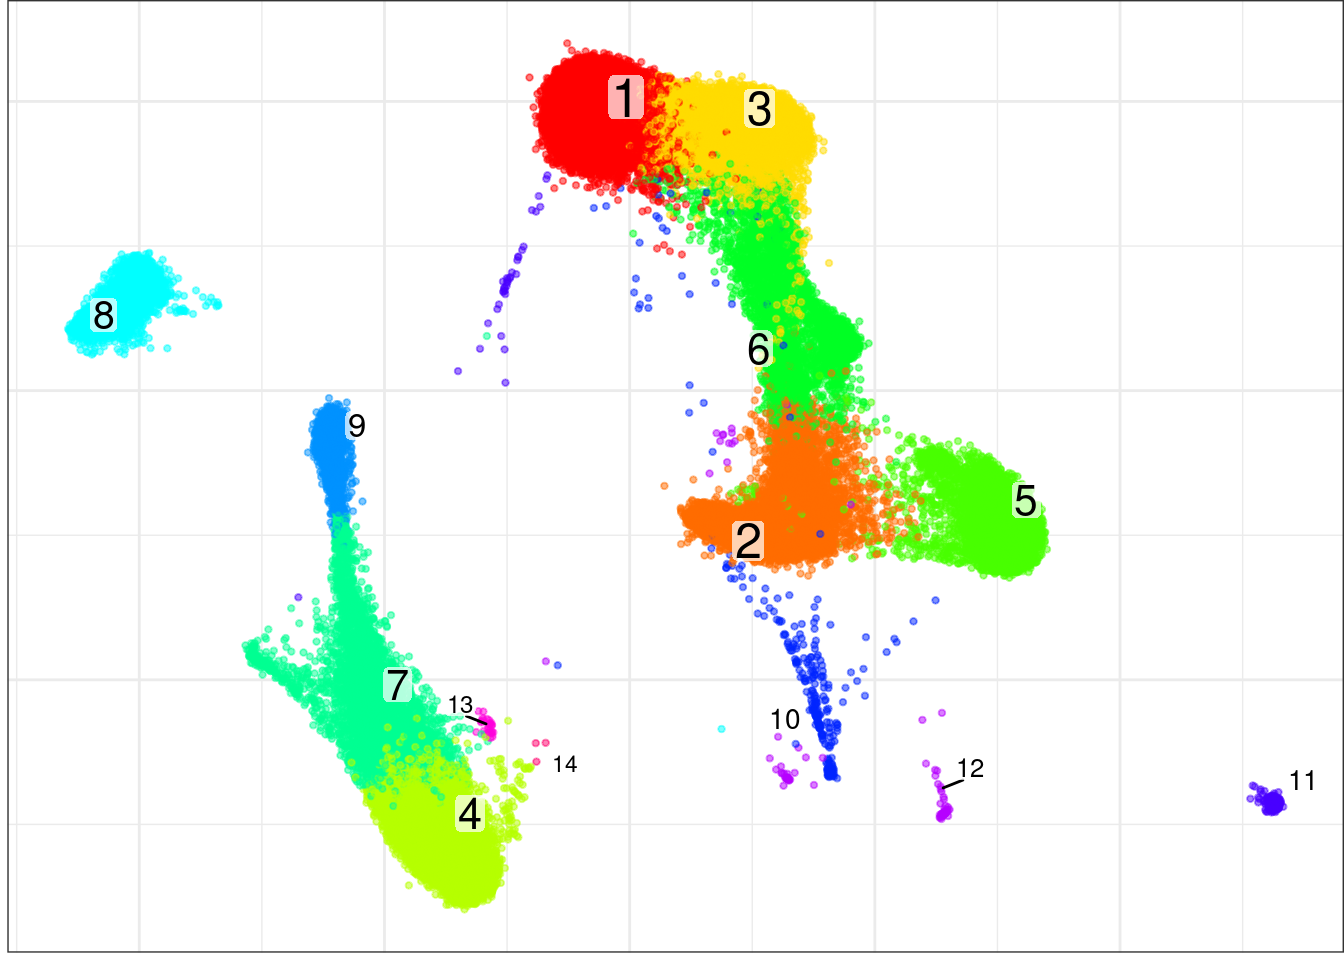
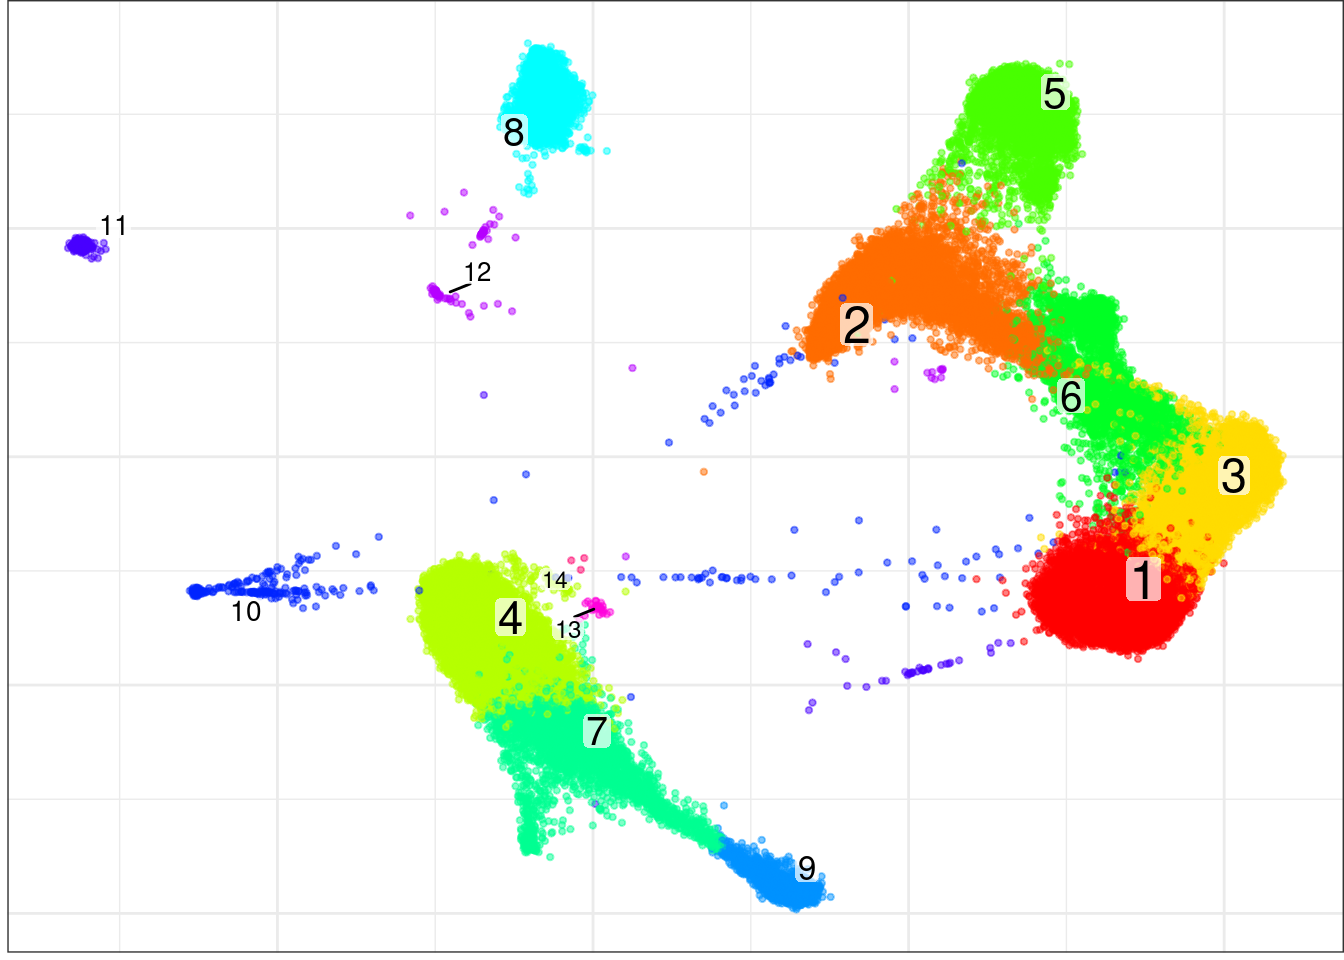
Build site.

diff --git a/docs/analysiswithconos.html b/docs/analysiswithconos.html
@@ -523,16 +523,16 @@ This reproducible <a href="http://rmarkdown.rstudio.com">R Markdown</a> analysis
 <div class="panel panel-default">
 <div class="panel-heading">
 <p class="panel-title">
-<a data-toggle="collapse" data-parent="#workflowr-checks" href="#strongRepositoryversionstrongahrefhttpsgithubcomjeprobprojectscrnaseqintegrationcomparisontree3df5d574dcc374b3e99eb0e82ae75da51ad36114targetblank3df5d57a"> <span class="glyphicon glyphicon-ok text-success" aria-hidden="true"></span> <strong>Repository version:</strong> <a href="https://github.com/jeprob/project-scrnaseq-integration-comparison/tree/3df5d574dcc374b3e99eb0e82ae75da51ad36114" target="_blank">3df5d57</a> </a>
+<a data-toggle="collapse" data-parent="#workflowr-checks" href="#strongRepositoryversionstrongahrefhttpsgithubcomjeprobprojectscrnaseqintegrationcomparisontreeb8ce607623cd019a14cf4cf6ad75fb1d3bffa91etargetblankb8ce607a"> <span class="glyphicon glyphicon-ok text-success" aria-hidden="true"></span> <strong>Repository version:</strong> <a href="https://github.com/jeprob/project-scrnaseq-integration-comparison/tree/b8ce607623cd019a14cf4cf6ad75fb1d3bffa91e" target="_blank">b8ce607</a> </a>
 </p>
 </div>
[2 lines of base64/hex data omitted]
 <div class="panel-body">
 <p>
 Great! You are using Git for version control. Tracking code development and connecting the code version to the results is critical for reproducibility.
 </p>
 <p>
-The results in this page were generated with repository version <a href="https://github.com/jeprob/project-scrnaseq-integration-comparison/tree/3df5d574dcc374b3e99eb0e82ae75da51ad36114" target="_blank">3df5d57</a>. See the <em>Past versions</em> tab to see a history of the changes made to the R Markdown and HTML files.
+The results in this page were generated with repository version <a href="https://github.com/jeprob/project-scrnaseq-integration-comparison/tree/b8ce607623cd019a14cf4cf6ad75fb1d3bffa91e" target="_blank">b8ce607</a>. See the <em>Past versions</em> tab to see a history of the changes made to the R Markdown and HTML files.
 </p>
 <p>
 Note that you need to be careful to ensure that all relevant files for the analysis have been committed to Git prior to generating the results (you can use <code>wflow_publish</code> or <code>wflow_git_commit</code>). workflowr only checks the R Markdown file, but you know if there are other scripts or data files that it depends on. Below is the status of the Git repository when the results were generated:
@@ -579,6 +579,40 @@ Message
 </tr>
 </thead>
 <tbody>
+<tr>
+<td>
+Rmd
+</td>
+<td>
+<a href="https://github.com/jeprob/project-scrnaseq-integration-comparison/blob/b8ce607623cd019a14cf4cf6ad75fb1d3bffa91e/analysis/analysiswithconos.Rmd" target="_blank">b8ce607</a>
+</td>
+<td>
+jeprob
+</td>
+<td>
+2021-01-10
+</td>
+<td>
+conos finalfinal 20200110T1844
+</td>
+</tr>
+<tr>
+<td>
+html
+</td>
+<td>
+<a href="https://rawcdn.githack.com/jeprob/project-scrnaseq-integration-comparison/0d784d5fe15f127f2f704503e635d250a5d13be9/docs/analysiswithconos.html" target="_blank">0d784d5</a>
+</td>
+<td>
+jeprob
+</td>
+<td>
+2021-01-10
+</td>
+<td>
+Build site.
+</td>
+</tr>
 <tr>
 <td>
 html
@@ -966,6 +1000,17 @@ Date
 <tbody>
 <tr>
 <td>
+<a href="https://github.com/jeprob/project-scrnaseq-integration-comparison/blob/0d784d5fe15f127f2f704503e635d250a5d13be9/docs/figure/analysiswithconos.Rmd/unnamed-chunk-9-1.png" target="_blank">0d784d5</a>
+</td>
+<td>
+jeprob
+</td>
+<td>
+2021-01-10
+</td>
+</tr>
+<tr>
+<td>
 <a href="https://github.com/jeprob/project-scrnaseq-integration-comparison/blob/3df5d574dcc374b3e99eb0e82ae75da51ad36114/docs/figure/analysiswithconos.Rmd/unnamed-chunk-9-1.png" target="_blank">3df5d57</a>
 </td>
 <td>
@@ -1061,6 +1106,17 @@ Date
 <tbody>
 <tr>
 <td>
+<a href="https://github.com/jeprob/project-scrnaseq-integration-comparison/blob/0d784d5fe15f127f2f704503e635d250a5d13be9/docs/figure/analysiswithconos.Rmd/unnamed-chunk-10-1.png" target="_blank">0d784d5</a>
+</td>
+<td>
+jeprob
+</td>
+<td>
+2021-01-10
+</td>
+</tr>
+<tr>
+<td>
 <a href="https://github.com/jeprob/project-scrnaseq-integration-comparison/blob/3df5d574dcc374b3e99eb0e82ae75da51ad36114/docs/figure/analysiswithconos.Rmd/unnamed-chunk-10-1.png" target="_blank">3df5d57</a>
 </td>
 <td>
@@ -1129,7 +1185,7 @@ jeprob
 </table>
 </div>
 </div>
-<p>We find that there are 15 clusters identified in total.</p>
+<p>The exact number of clusters recognized varies slightly in parallelized computational settings due to path dependency of random number subsequences used in sub-processes (even when fixing initial random number seeds). Therefore we find between 13 and 15 clusters identified from the joint graph.</p>
 <p>Next, cells in the original t-SNE embedding were plotted for each panel and cell labels obtained from the joint clustering were added.</p>
 <pre class="r"><code>pbmc.con$plotPanel(font.size=4)</code></pre>
 <p><img src="figure/analysiswithconos.Rmd/unnamed-chunk-11-1.png" width="672" style="display: block; margin: auto;" /></p>
@@ -1155,6 +1211,17 @@ Date
 </tr>
 </thead>
 <tbody>
+<tr>
+<td>
+<a href="https://github.com/jeprob/project-scrnaseq-integration-comparison/blob/0d784d5fe15f127f2f704503e635d250a5d13be9/docs/figure/analysiswithconos.Rmd/unnamed-chunk-11-1.png" target="_blank">0d784d5</a>
+</td>
+<td>
+jeprob
+</td>
+<td>
+2021-01-10
+</td>
+</tr>
 <tr>
 <td>
 <a href="https://github.com/jeprob/project-scrnaseq-integration-comparison/blob/3df5d574dcc374b3e99eb0e82ae75da51ad36114/docs/figure/analysiswithconos.Rmd/unnamed-chunk-11-1.png" target="_blank">3df5d57</a>
@@ -1252,6 +1319,17 @@ Date
 <tbody>
 <tr>
 <td>
+<a href="https://github.com/jeprob/project-scrnaseq-integration-comparison/blob/0d784d5fe15f127f2f704503e635d250a5d13be9/docs/figure/analysiswithconos.Rmd/unnamed-chunk-12-1.png" target="_blank">0d784d5</a>
+</td>
+<td>
+jeprob
+</td>
+<td>
+2021-01-10
+</td>
+</tr>
+<tr>
+<td>
 <a href="https://github.com/jeprob/project-scrnaseq-integration-comparison/blob/3df5d574dcc374b3e99eb0e82ae75da51ad36114/docs/figure/analysiswithconos.Rmd/unnamed-chunk-12-1.png" target="_blank">3df5d57</a>
 </td>
 <td>
@@ -1320,7 +1398,7 @@ jeprob
 </table>
 </div>
 </div>
-<p>Many interesting things can be observed in this plot. The number of cells belonging to the clusters has a big range from many 1000 to less than 10 cells. Cells from smaller clusters still seemed to be observed in most samples, except for cluster 12 which does not appear in het1, cluster 14 which does not appear in p2 and cluster 15 which only appears inko2 and wt1. We also find that most of the cells in ko1 belong to cluster 2. Furthermore, there is no obvious trend, judged by eye, that wildtype sample cells seemed to be differently distributed than the remaining samples het1, m2 and p2.</p>
+<p>Many interesting things can be observed in this plot. The number of cells belonging to the clusters has a big range from many 1000 to just a couple cells. Cells from smaller clusters still seemed to be observed in most samples. We also find that most of the cells in ko1 belong to cluster 2. Furthermore, there is no obvious trend, judged by eye, that wildtype sample cells seemed to be differently distributed than the remaining samples het1, m2 and p2.</p>
 <p>Further downstream analysis such as gene expression visualization or hierarchical community structure generation would be possible with Conos. For more information visit <a href="https://github.com/kharchenkolab/conos/blob/master/vignettes/walkthrough.md">this vignette</a>.</p>
 <br>
 <p>
